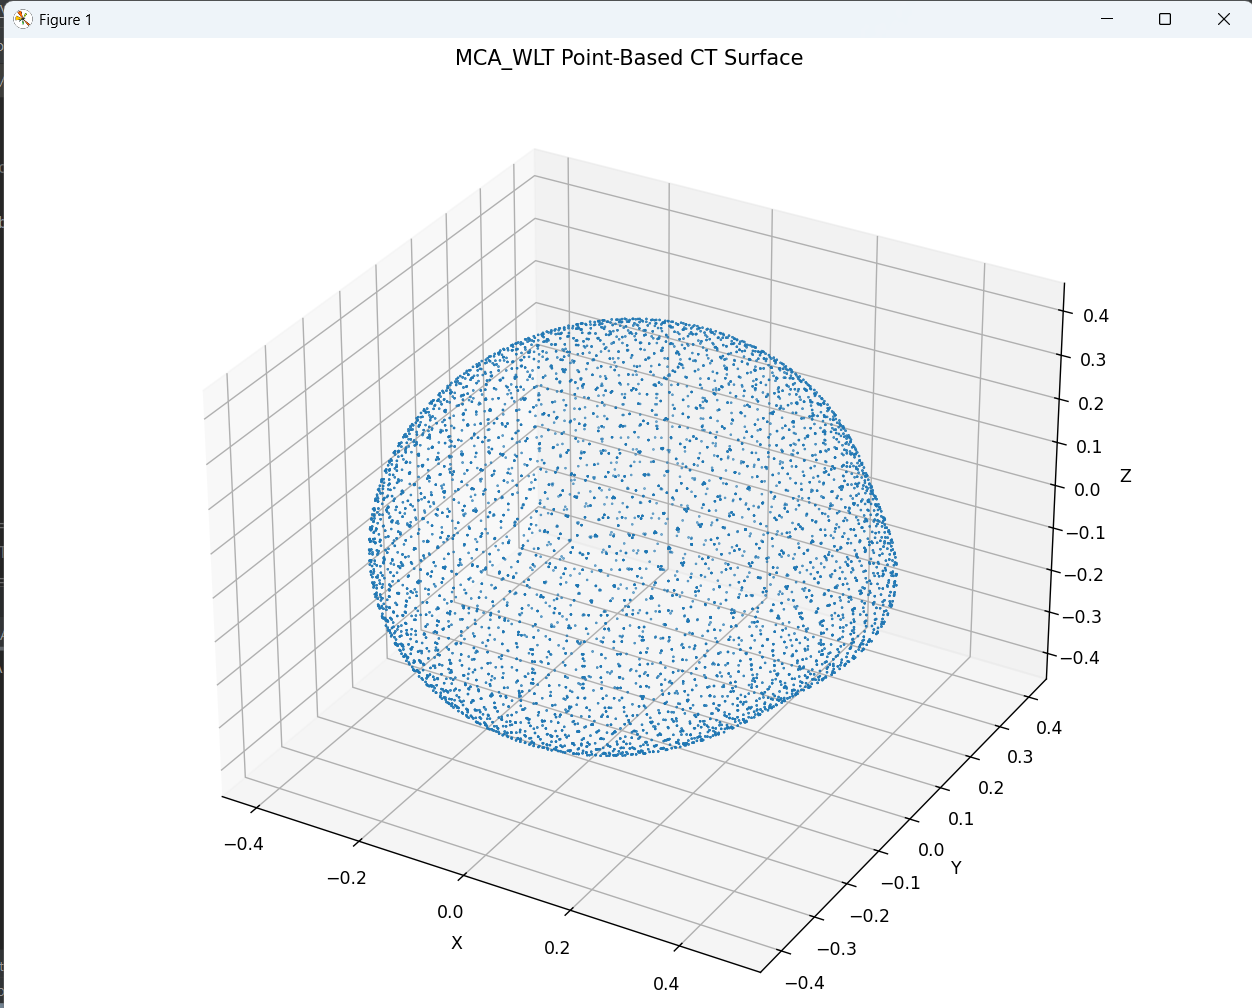
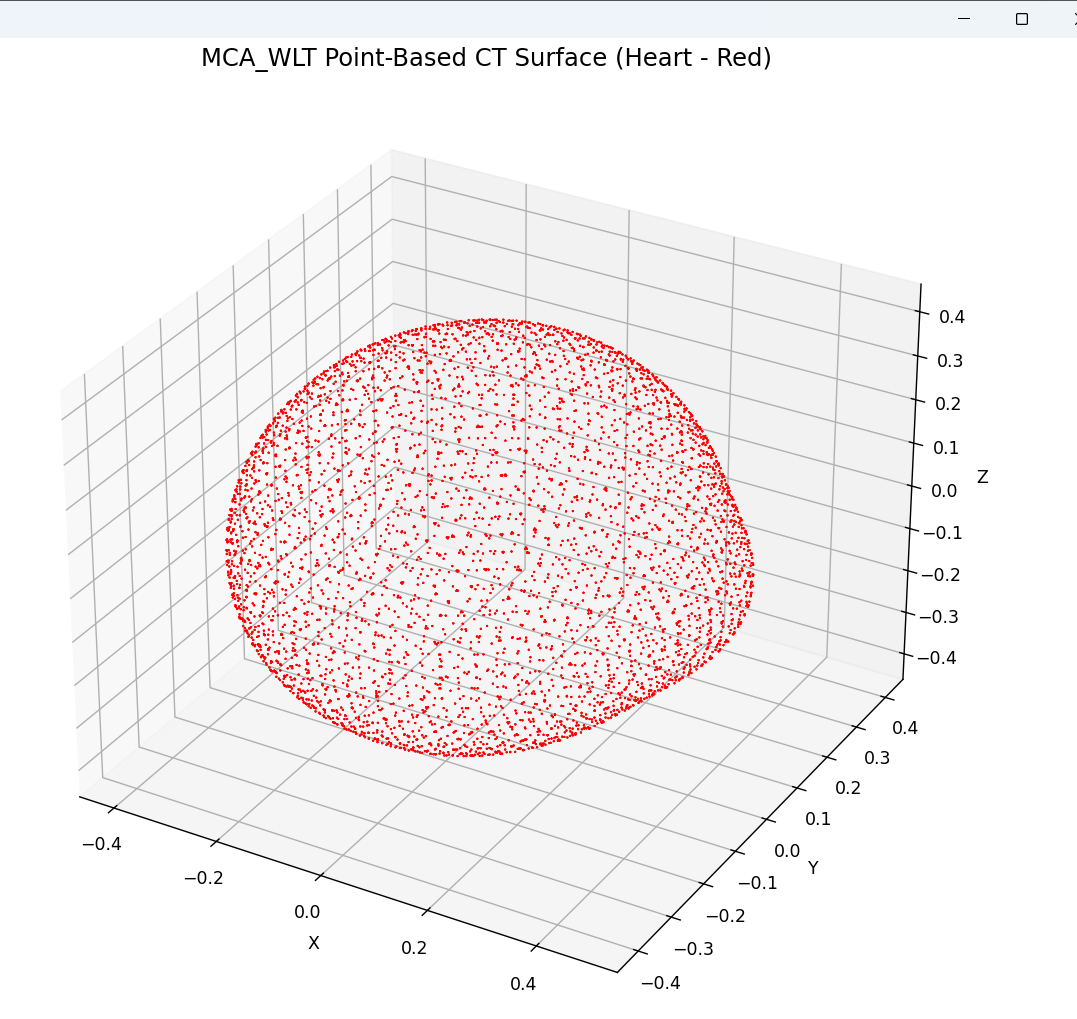
Add files via upload

diff --git a/MCA_WLTNT.py b/MCA_WLTNT.py
@@ -7,20 +7,20 @@ import matplotlib.pyplot as plt
 
 n = 80
 
-x = np.linspace(-1,1,n)
-y = np.linspace(-1,1,n)
-z = np.linspace(-1,1,n)
+x = np.linspace(-1, 1, n)
+y = np.linspace(-1, 1, n)
+z = np.linspace(-1, 1, n)
 
-X,Y,Z = np.meshgrid(x,y,z)
+X, Y, Z = np.meshgrid(x, y, z)
 
 # ==========================================
 # 模擬心臟 CT 結構
 # ==========================================
 
-heart = np.exp(-(X**2 + Y**2 + Z**2)*7)
+heart = np.exp(-(X**2 + Y**2 + Z**2) * 7)
 
-vessel = 0.35*np.exp(
-    -((X-0.35)**2 + Y**2 + Z**2)*60
+vessel = 0.35 * np.exp(
+    -((X - 0.35)**2 + Y**2 + Z**2) * 60
 )
 
 volume = heart + vessel
@@ -35,68 +35,59 @@ iso = 0.32
 points = []
 
 # 12 edges of cube
-
 edges = [
-    (0,1),(1,2),(2,3),(3,0),
-    (4,5),(5,6),(6,7),(7,4),
-    (0,4),(1,5),(2,6),(3,7)
+    (0, 1), (1, 2), (2, 3), (3, 0),
+    (4, 5), (5, 6), (6, 7), (7, 4),
+    (0, 4), (1, 5), (2, 6), (3, 7)
 ]
 
 # cube vertices
-
 cube_offsets = np.array([
-    [0,0,0],
-    [1,0,0],
-    [1,1,0],
-    [0,1,0],
-    [0,0,1],
-    [1,0,1],
-    [1,1,1],
-    [0,1,1]
+    [0, 0, 0],
+    [1, 0, 0],
+    [1, 1, 0],
+    [0, 1, 0],
+    [0, 0, 1],
+    [1, 0, 1],
+    [1, 1, 1],
+    [0, 1, 1]
 ])
 
 # ==========================================
 # Traversal
 # ==========================================
 
-for i in range(n-1):
-    for j in range(n-1):
-        for k in range(n-1):
+for i in range(n - 1):
+    for j in range(n - 1):
+        for k in range(n - 1):
 
             vals = []
             verts = []
 
             for off in cube_offsets:
-
                 xi = i + off[0]
                 yj = j + off[1]
                 zk = k + off[2]
 
-                vals.append(volume[xi,yj,zk])
-                verts.append([X[xi,yj,zk],
-                              Y[xi,yj,zk],
-                              Z[xi,yj,zk]])
+                vals.append(volume[xi, yj, zk])
+                verts.append([X[xi, yj, zk],
+                              Y[xi, yj, zk],
+                              Z[xi, yj, zk]])
 
             vals = np.array(vals)
             verts = np.array(verts)
 
             # check all 12 edges
-
             for e in edges:
-
-                a,b = e
+                a, b = e
 
                 va = vals[a]
                 vb = vals[b]
 
                 # surface crossing
-
-                if (va-iso)*(vb-iso) < 0:
-
-                    t = (iso-va)/(vb-va)
-
-                    p = verts[a] + t*(verts[b]-verts[a])
-
+                if (va - iso) * (vb - iso) < 0:
+                    t = (iso - va) / (vb - va)
+                    p = verts[a] + t * (verts[b] - verts[a])
                     points.append(p)
 
 # ==========================================
@@ -106,22 +97,23 @@ for i in range(n-1):
 points = np.array(points)
 
 # ==========================================
-# Visualization
+# Visualization (紅色系，更真實)
 # ==========================================
 
-fig = plt.figure(figsize=(10,10))
-
+fig = plt.figure(figsize=(10, 10))
 ax = fig.add_subplot(111, projection='3d')
 
 ax.scatter(
-    points[:,0],
-    points[:,1],
-    points[:,2],
-    s=0.15
+    points[:, 0],
+    points[:, 1],
+    points[:, 2],
+    s=1.5,              # 放大點的大小，更容易看見
+    color='red',        # 心臟表面使用紅色
+    alpha=0.8,          # 略帶透明，增加立體感
+    edgecolors='none'
 )
 
-ax.set_title("MCA_WLT Point-Based CT Surface")
-
+ax.set_title("MCA_WLT Point-Based CT Surface (Heart - Red)", fontsize=14)
 ax.set_xlabel("X")
 ax.set_ylabel("Y")
 ax.set_zlabel("Z")
